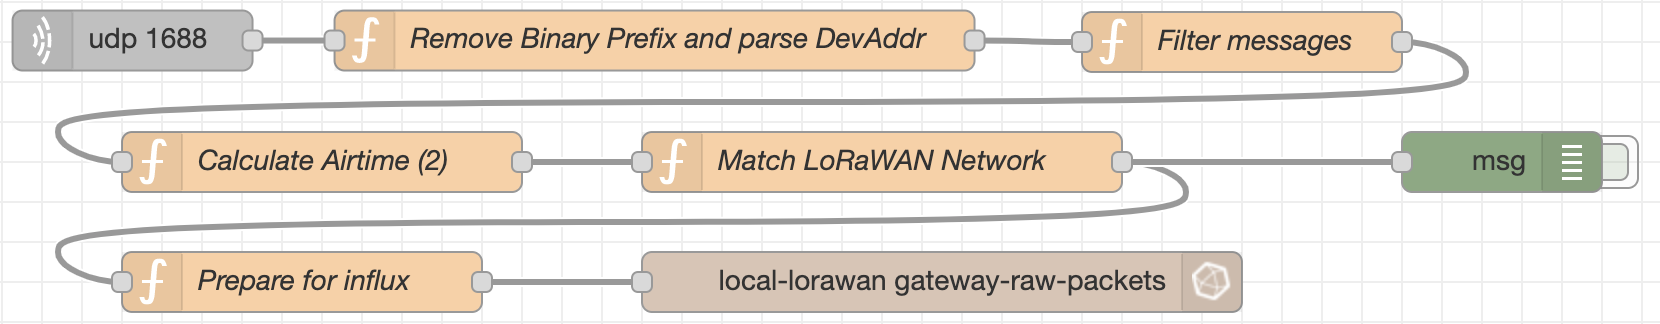
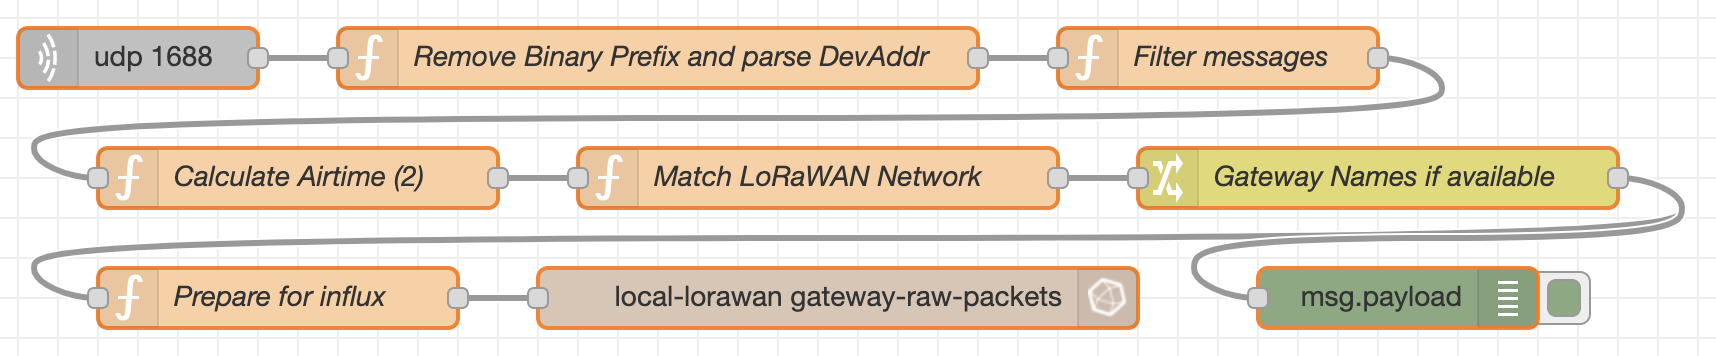
Use Buffer as input from UDP node, to fix occasional JSON parse error. Also fixes Gateway EUI conversion. Add gateway naming based on EUI.

diff --git a/README.md b/README.md
@@ -12,6 +12,7 @@ This flow acts like a LoRaWAN network for your gateway, takes in packages via th
 * Install Node-Red with the [InfluxDB nodes](https://flows.nodered.org/node/node-red-contrib-influxdb)
 * Use the "Import" function in the Node-Red menu to import the ``flows.json`` file.
 * Enter the InfluxDB credentials in the last node.
+* Enter your gateway EUIs in the "Gateway Names if available" node.
 * Setup Grafana, configure the InfluxDB datasource, and import the ``dashboard.json`` file.
 * Configure your Node-Red installation as an additional server in the [mp_pkt_fwd](https://github.com/kersing/packet_forwarder/tree/master/mp_pkt_fwd), by adding something like this section in the ``gateway_conf -> servers`` section:
 ```
